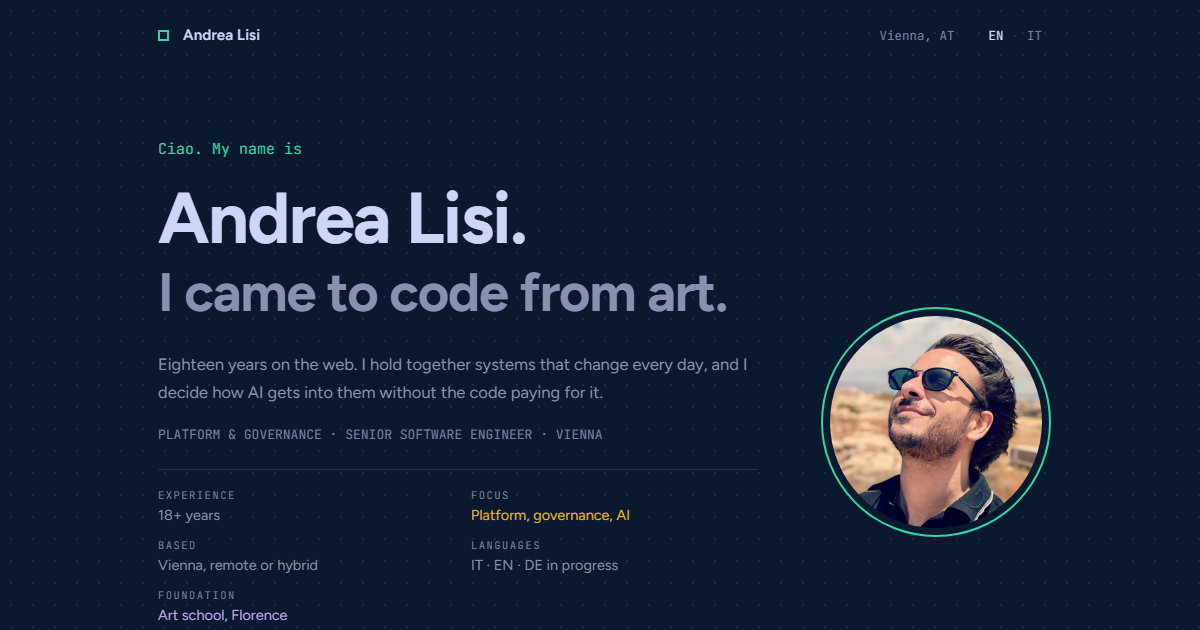
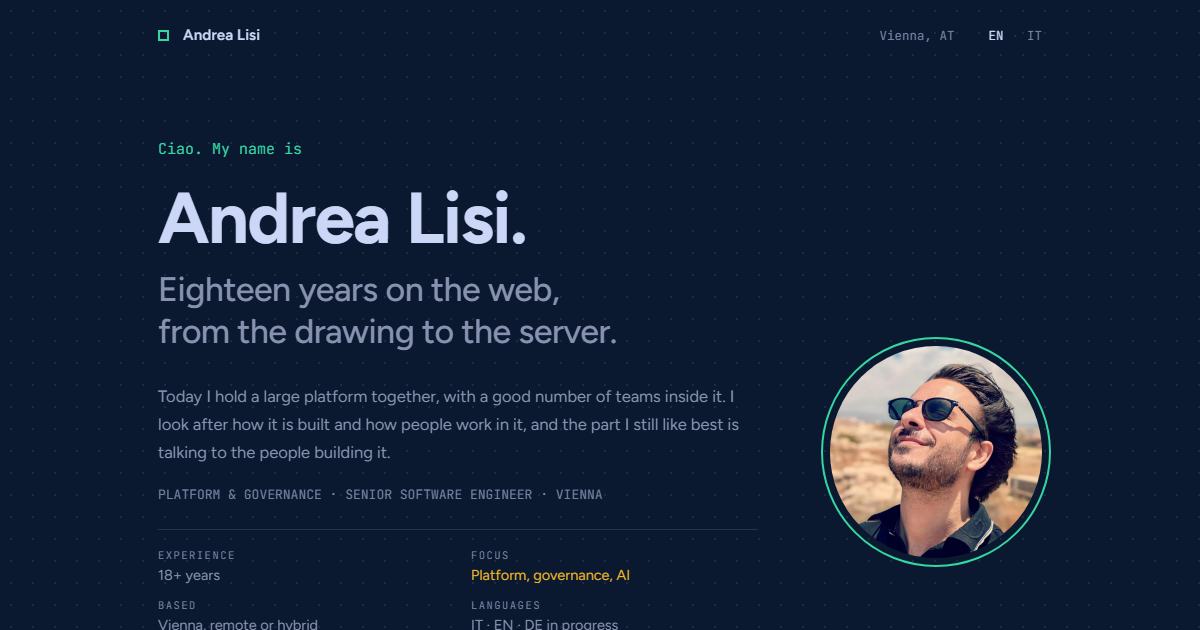
fix: a hero that says who he is, and a tagline that stops reading as a typo
Two problems, and the second was typography wearing a copy problem's clothes.

The tagline ran at 54px against the name's 72px, three quarters of its size at
the same weight, so the eye took the two lines as one sentence: "Andrea Lisi. Al
codice ci sono arrivato" looked like the name had continued into a mistake. It
now runs at 34px and weight 500, 47% of the name, unmistakably the next thing
rather than the rest of the first. text-wrap:balance breaks it at the comma
instead of leaving "al server." stranded on its own line.

The intro was three quarters about AI and platform work, which is one section of
this site and not the person. It now says what he does today and, in the same
breath, that the part he likes best is talking to the people building it, which
is the truest general thing about him and the one no CV line carries.

The tagline takes the whole arc, "Diciotto anni sul web, dal disegno al server",
so the intro no longer walks it a second time. Two nouns bracket eighteen years:
the drawing he started from and the servers he ended up installing.

Social card and both descriptions regenerated with them.

diff --git a/src/i18n/en.ts b/src/i18n/en.ts
@@ -7,7 +7,7 @@ export const en: Copy = {
   meta: {
     title: 'Andrea Lisi · Platform & Governance · Vienna',
     description:
-      'Platform and governance in Vienna. Eighteen years on the web. I hold together systems that change every day, and I decide how AI gets into them.',
+      'Platform and governance in Vienna. Eighteen years on the web, from the drawing to the server: today I hold a large platform together, many teams inside.',
     ogImageAlt: 'Andrea Lisi, platform and governance engineer in Vienna',
   },
   aiMeta: {
@@ -33,7 +33,7 @@ export const en: Copy = {
 
   hero: {
     greeting: 'Ciao. My name is',
-    tagline: 'I came to code from art.',
+    tagline: 'Eighteen years on the web, from the drawing to the server.',
     eyebrow: 'PLATFORM & GOVERNANCE · SENIOR SOFTWARE ENGINEER · VIENNA',
     stats: [
       { label: 'EXPERIENCE', value: '18+ years' },
@@ -43,7 +43,7 @@ export const en: Copy = {
       { label: 'FOUNDATION', value: 'Art school, Florence', tone: 'root' },
     ],
     intro:
-      'Eighteen years on the web. I hold together systems that change every day, and I decide how AI gets into them without the code paying for it.',
+      'Today I hold a large platform together, with a good number of teams inside it. I look after how it is built and how people work in it, and the part I still like best is talking to the people building it.',
     buttons: { github: 'GITHUB', linkedin: 'LINKEDIN', email: 'EMAIL', cv: 'CV.PDF ↓' },
   },
 

diff --git a/src/i18n/it.ts b/src/i18n/it.ts
@@ -13,7 +13,7 @@ export const it: Copy = {
   meta: {
     title: 'Andrea Lisi · Platform & Governance · Vienna',
     description:
-      'Piattaforma e governance a Vienna. Diciotto anni sul web. Tengo insieme sistemi che cambiano ogni giorno, e decido come l’AI ci entra dentro.',
+      'Platform & Governance a Vienna. Diciotto anni sul web, dal disegno al server: oggi tengo insieme una piattaforma grande, con parecchi team dentro.',
     ogImageAlt: 'Andrea Lisi, piattaforma e governance a Vienna',
   },
   aiMeta: {
@@ -39,7 +39,7 @@ export const it: Copy = {
 
   hero: {
     greeting: 'Ciao. Mi chiamo',
-    tagline: 'Al codice ci sono arrivato dall’arte.',
+    tagline: 'Diciotto anni sul web, dal disegno al server.',
     eyebrow: 'PLATFORM & GOVERNANCE · SENIOR SOFTWARE ENGINEER · VIENNA',
     stats: [
       { label: 'ESPERIENZA', value: '18+ anni' },
@@ -49,7 +49,7 @@ export const it: Copy = {
       { label: 'FORMAZIONE', value: 'Istituto d’Arte, Firenze', tone: 'root' },
     ],
     intro:
-      'Diciotto anni sul web. Tengo insieme sistemi che cambiano ogni giorno, e decido come l’AI ci entra dentro senza che il codice ne risenta.',
+      'Oggi tengo insieme una piattaforma grande, con parecchi team dentro. Mi occupo di come è fatta e di come ci si lavora, e la parte che mi piace di più resta parlare con le persone che la costruiscono.',
     buttons: { github: 'GITHUB', linkedin: 'LINKEDIN', email: 'EMAIL', cv: 'CV.PDF ↓' },
   },
 

diff --git a/src/components/hero.css b/src/components/hero.css
@@ -26,14 +26,23 @@
   letter-spacing: -0.02em;
 }
 
-/* The line that says the job in one breath, deliberately as loud as the name. */
+/*
+ * The line under the name. It used to run at 54px against the name's 72px,
+ * three quarters of its size and the same weight, and at that distance the eye
+ * read the two as one sentence: "Andrea Lisi. Al codice..." looked like the name
+ * had continued into a typo. Half the name's size and a lighter weight, so it
+ * is unmistakably the next thing rather than the rest of the first.
+ */
 .hero .tagline {
-  margin: 6px 0 0;
-  font-weight: 700;
-  font-size: clamp(28px, 5vw, 54px);
-  line-height: 1.1;
-  letter-spacing: -0.02em;
+  margin: 12px 0 0;
+  font-weight: 500;
+  font-size: clamp(21px, 3.1vw, 34px);
+  line-height: 1.25;
+  letter-spacing: -0.015em;
   color: var(--body);
+  /* Breaks at the comma instead of leaving "al server." alone on a line. */
+  text-wrap: balance;
+  max-width: 24ch;
 }
 
 .hero .intro {
